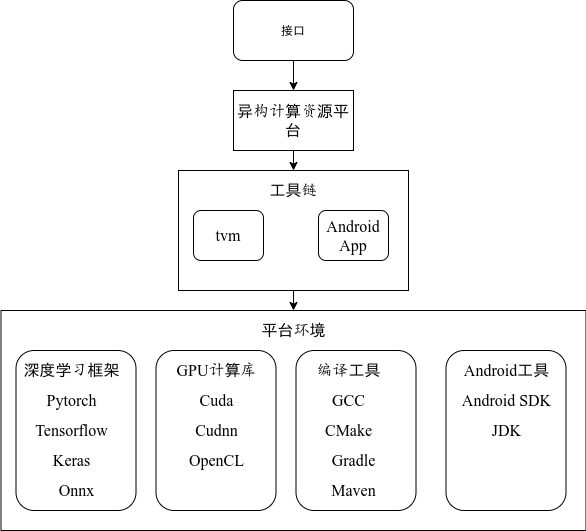
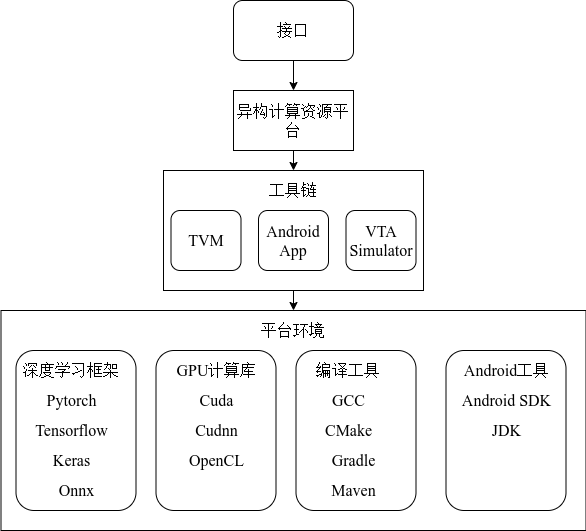
add system design

diff --git a/data/chapter4-system-design.tex b/data/chapter4-system-design.tex
@@ -1,0 +1,60 @@
+\chapter{系统设计}
+
+基于需求分析，该部分介绍异构计算平台的系统设计。该部分按照自上而下的顺序，如图\ref{platform_arch}所示，分别介绍接口的设计，平台设计，工具链设计，和平台的系统环境设计。
+
+\begin{figure}[h!]
+    \centering
+    \includegraphics[width=180bp]{figure/platform_arch.png}
+    \caption{系统架构}
+    \label{platform_arch}
+\end{figure}
+
+
+\section{接口设计}
+
+接口是平台暴露给用户使用API，与用户进行直接的交互，用户通过调用该API来进行模型的部署。
+
+\begin{figure}[h!]
+    \centering
+    \includegraphics[width=180bp]{figure/platform_interface.png}
+    \caption{系统接口}
+    \label{platform_interface}
+\end{figure}
+
+平台通过把每种设备的部署抽象为一个类来实现相应的功能，通过一些参数来与用户交互。如上图\ref{platform_interface}所示，其中：
+\begin{itemize}
+    \item {框架参数：用户待部署的模型使用的深度学习框架。支持Pytorch，Tensorflow，Keras，Onnx。}
+    \item {设备参数：用户部署的目标设备。支持本地，安卓设备，树莓派，VTA等。}
+    \item {计算平台参数：用户部署需要使用的计算平台，此参数与具体的部署设备相关。本地支持CPU和Cuda，安卓设备支持CPU，OpenCL和Vulkan等。树莓派和VTA支持CPU。}
+    \item {模型参数：是用户待部署的模型对象。}
+    \item {输入形状参数：是用户模型输入向量的形状。}
+\end{itemize}
+
+通过该接口，用户最终得到部署后的模型对象，该对象可以像其他模型一样，计算输出。
+
+
+
+\section{平台设计}
+
+异构计算资源平台由几个部分组成：
+\begin{itemize}
+    \item {编译模块：把用户输入的模型编译为计算图的中间表示，把多种框架的不同计算图编译为统一的中间形式方便后续的部署。}
+    \item {部署模块：把得到的计算图中间表示生成能够在具体硬件执行的动态链接库，能够部署到对应的平台执行推理。}
+    \item {接口的实现：把接口实现为Python的类，在接口中封装编译和部署的功能，通过暴露出参数，来让用户调用。}
+\end{itemize}
+
+
+\section{工具链设计}
+
+平台通过基于第三方的工具来辅助实现平台的功能。本项目中将会使用TVM和Android Rpc App（安卓RPC通信应用）以及VTA Simulator（VTA模拟器）来完成平台的功能。
+
+TVM是一个端到端的神经网络模型的编译器工具链，支持目前主流的前端的深度学习框架，如Pytorch，Tensorflow，Onnx等，同时支持部署到广泛的后端硬件设备，如CPU，服务器端GPU，移动端GPU，FPGA等。所以，本项目采用TVM来实现模型的编译和部署。
+
+其次，为了能够部署到安卓设备，需要主机和安卓设备进行通信，所以使用Android Rpc App来使主机和安卓设备进行通信，能够把模型上传到安卓设备。
+
+最后，为了能够把模型部署到VTA上，在TVM生成VTA指令集的代码后，需要通过VTA模拟器来执行生成的可执行代码。
+
+
+\section{平台环境设计}
+
+平台系统环境指的是该平台依赖的所有底层软件和操作系统的总和。实现该平台需要依赖复杂的软件。其中包括深度学习框架，Pytorch，Tensorflow，keras，Onnx等。GPU计算库，Cuda，Cudnn，OpenCL等。编译工具GCC，CMake，Gradle，Maven等。构建Android App需要的JDK和Android SDK等。

diff --git a/bachelor.tex b/bachelor.tex
@@ -32,8 +32,9 @@
 \include{data/chapter1-intro}
 \include{data/chapter2-tech-base}
 \include{data/chapter3-demand-analysis}
-\include{data/chapter4-system-implement}
-\include{data/chapter5-expr}
+\include{data/chapter4-system-design}
+\include{data/chapter5-system-implement}
+\include{data/chapter6-expr}
 \include{data/chapter7-conclusion}
 
 % 致谢
